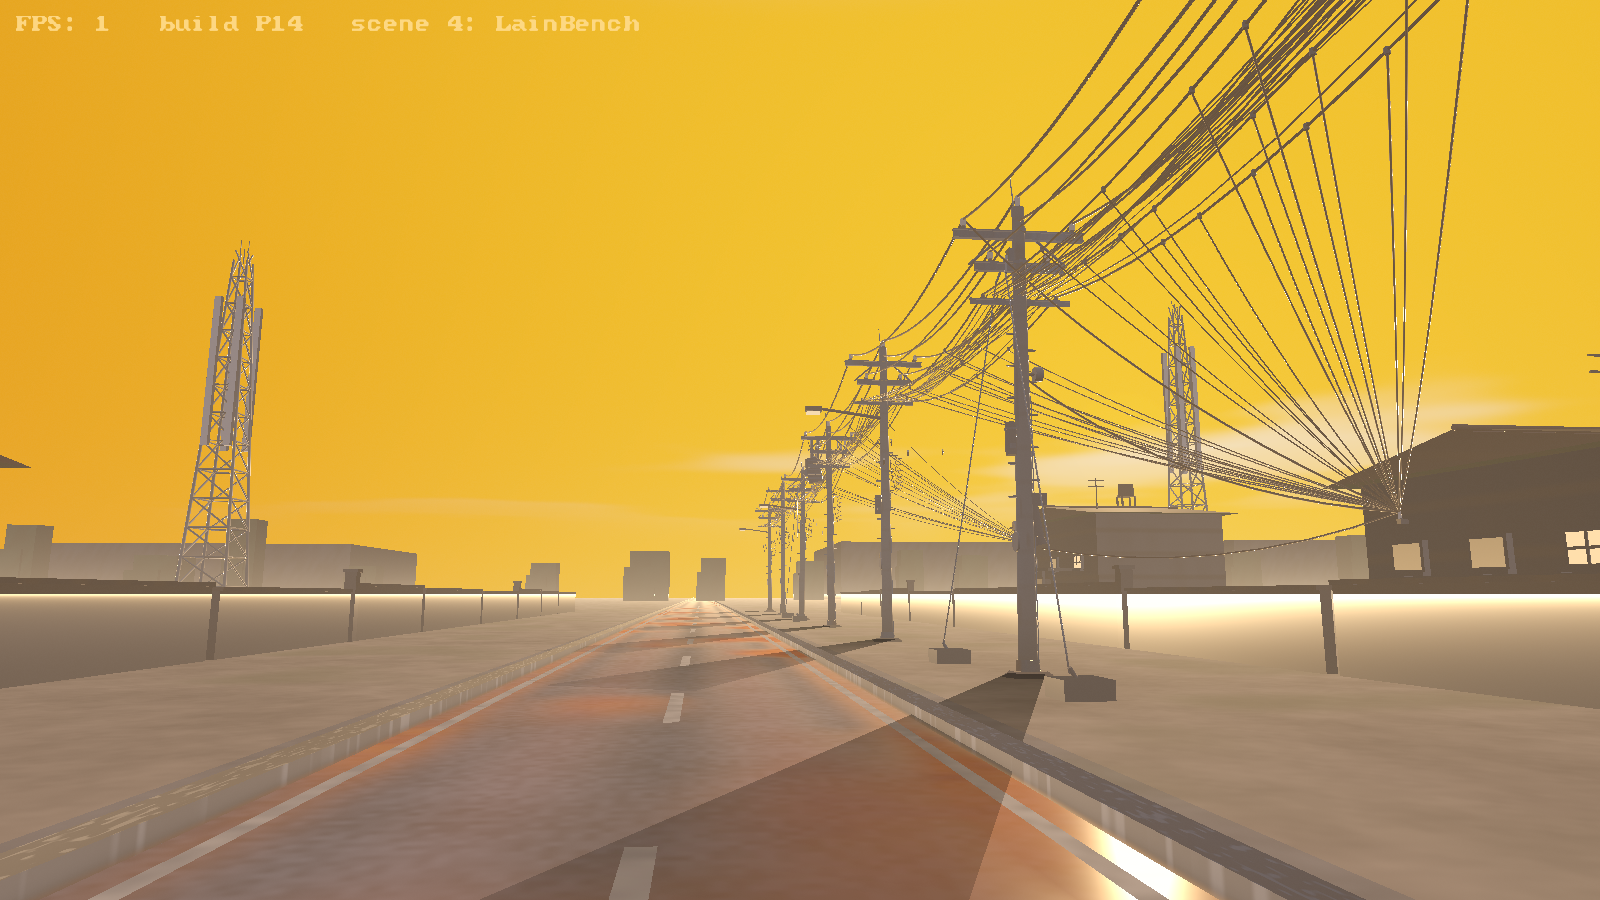
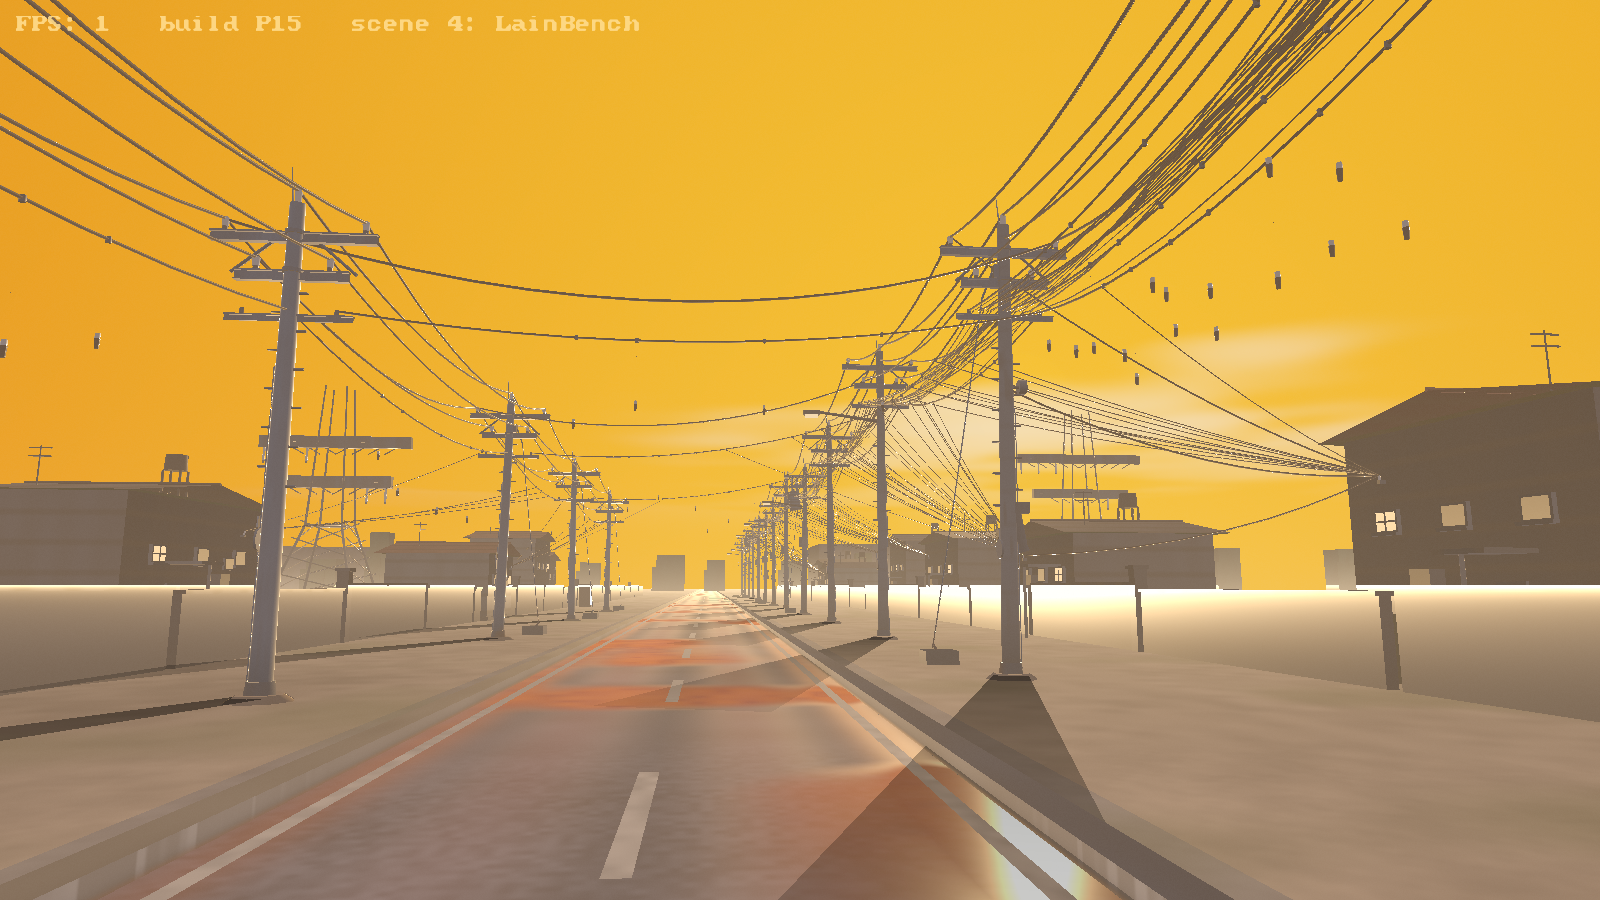
Refresh the scene 4 still and loop from the P15 binary
The committed screenshots were still rendered by the P14 binary, so the
gallery showed the cell mast with the hanging panel antennas rather than the
pylons that replaced them. Record the threshold-free sweep that closes out
the cylinder complaint, including the negative control that showed why the
threshold-based sweeps could not be trusted.

🤖 Generated with Codebuff

diff --git a/REFERENCES.md b/REFERENCES.md
@@ -222,6 +222,20 @@ Realism takeaways applied:
   Japanese distribution line is a far more characteristic sight than a cell
   mast, and it carries the scale P12 wanted without needing to be legible
   member by member.
+- **A detector that cannot see the old artifact cannot certify the new one.**
+  Every threshold-based sweep run over the new frames reported zero floating
+  bars — and then reported zero over the OLD frames too, which visibly had
+  them. The old panels sat only ~30 luma below the sky, so any mask with an
+  absolute darkness floor is blind to exactly the artifact under investigation.
+  What settles it is P14's threshold-free method: force the sky shader to a
+  constant, treat every non-constant pixel as geometry, and flood-fill that
+  mask from the bottom edge. Measured at t = 2 s and t = 17 s (the two ends of
+  the shipped loop) at 760x428: geometry 167,655 / 158,615 px, detached
+  4,275 / 3,466 px = 2.6% / 2.2%, and **every** detached component is either a
+  HUD glyph (identical 13-15 px cells on an exact 16 px pitch at y 16..30) or
+  a conductor leaving frame (h/w 0.29-0.56 — wide and flat). The tallest
+  detached thing in either frame has h/w 1.71 and is clipped by the top edge.
+  Not one detached component is cylinder-shaped.
 
 ### "Make the sky orange"
 
